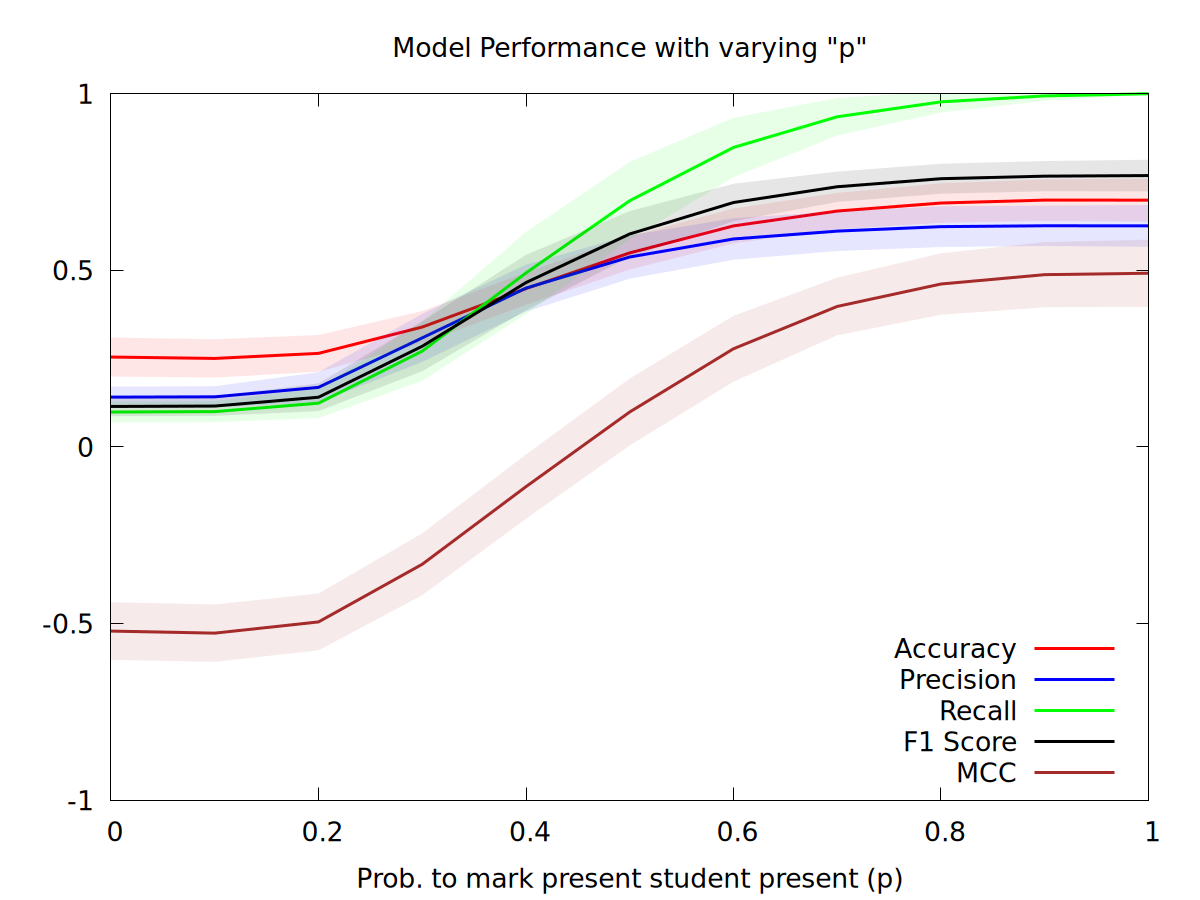
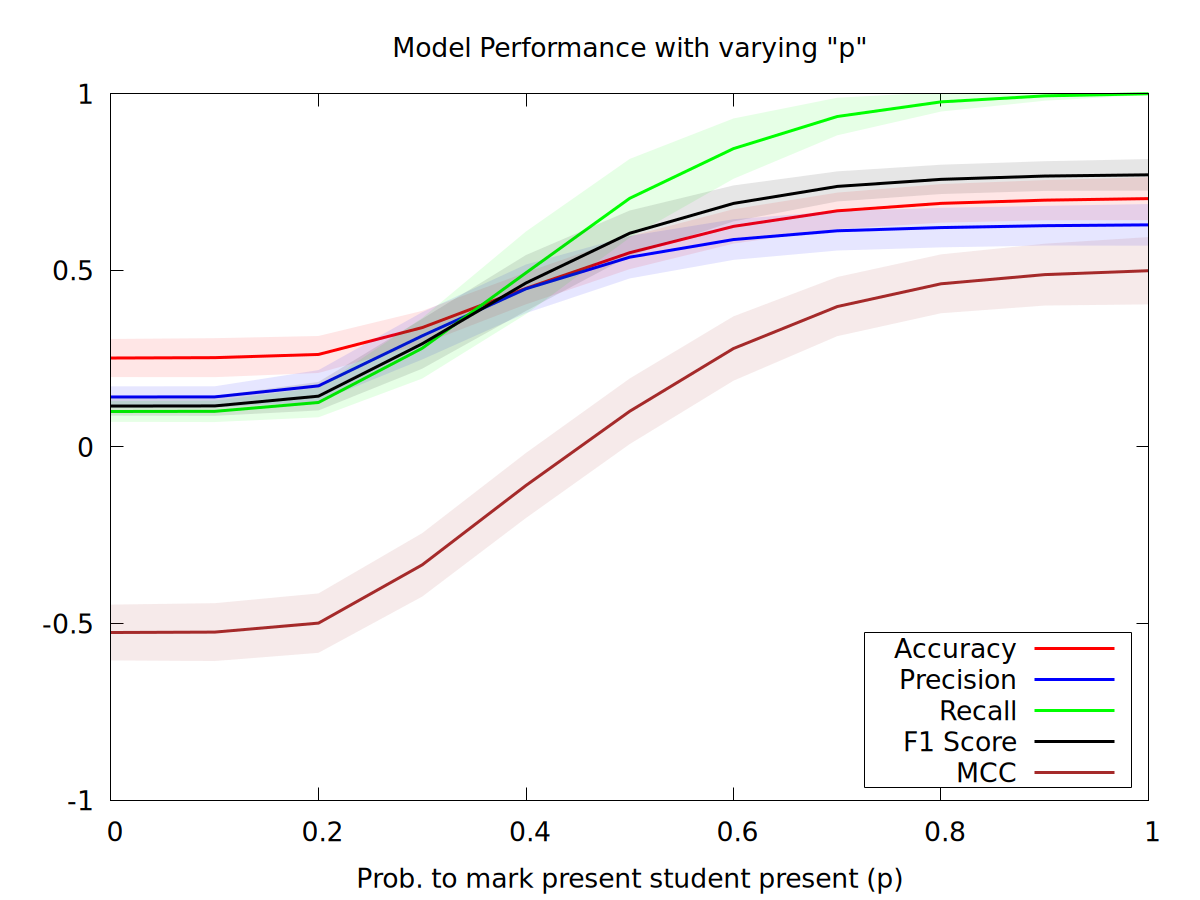
Added experiment with m

diff --git a/src/main.cpp b/src/main.cpp
@@ -326,9 +326,9 @@ int main(int argc, char *argv[])
         std::vector<double> ub(11), lb(11);
         for (int i = 0; i < 11; i++)
         {
-            float temp = 0.1 * i;
-            x[i] = temp;
-            std::pair<Stats, Stats> result = experiment(n, m, k, a, temp, q, r, seed, b, num_threads);
+            float var = 0.1 * i;
+            x[i] = var;
+            std::pair<Stats, Stats> result = experiment(n, m, k, a, var, q, r, seed, b, num_threads);
             tp_mean[i] = result.first.true_pos;
             fp_mean[i] = result.first.false_pos;
             fn_mean[i] = result.first.false_neg;
@@ -441,9 +441,9 @@ int main(int argc, char *argv[])
         std::vector<double> ub(11), lb(11);
         for (int i = 0; i < 11; i++)
         {
-            float temp = 0.1 * i;
-            x[i] = temp;
-            std::pair<Stats, Stats> result = experiment(n, m, k, a, p, temp, r, seed, b, num_threads);
+            float var = 0.1 * i;
+            x[i] = var;
+            std::pair<Stats, Stats> result = experiment(n, m, k, a, p, var, r, seed, b, num_threads);
             tp_mean[i] = result.first.true_pos;
             fp_mean[i] = result.first.false_pos;
             fn_mean[i] = result.first.false_neg;
@@ -472,6 +472,124 @@ int main(int argc, char *argv[])
         plt.set_savePath(("plots/" + variable + ".png").c_str());
         plt.set_title(("Model Performance with varying \"" + variable + "\"").c_str());
         plt.set_xlabel(("Prob. to mark absent student present (" + variable + ")").c_str());
+
+        plt.createPlot(x, acc_mean, "Accuracy", "red", Plotter::None, 0.0, 3.0);
+        for (int i = 0; i < 11; i++)
+        {
+            ub[i] = acc_mean[i] + acc_std[i];
+            lb[i] = acc_mean[i] - acc_std[i];
+        }
+        plt.fillBetween(x, ub, lb, "red", 0.1);
+
+        plt.addPlot(x, precision_mean, "Precision", "blue", Plotter::None, 0.0, 3.0);
+        for (int i = 0; i < 11; i++)
+        {
+            ub[i] = precision_mean[i] + precision_std[i];
+            lb[i] = precision_mean[i] - precision_std[i];
+        }
+        plt.fillBetween(x, ub, lb, "blue", 0.1);
+
+        plt.addPlot(x, recall_mean, "Recall", "green", Plotter::None, 0.0, 3.0);
+        for (int i = 0; i < 11; i++)
+        {
+            ub[i] = recall_mean[i] + recall_std[i];
+            lb[i] = recall_mean[i] - recall_std[i];
+        }
+        plt.fillBetween(x, ub, lb, "green", 0.1);
+
+        plt.addPlot(x, f1_mean, "F1 Score", "black", Plotter::None, 0.0, 3.0);
+        for (int i = 0; i < 11; i++)
+        {
+            ub[i] = f1_mean[i] + f1_std[i];
+            lb[i] = f1_mean[i] - f1_std[i];
+        }
+        plt.fillBetween(x, ub, lb, "black", 0.1);
+
+        plt.addPlot(x, mcc_mean, "MCC", "brown", Plotter::None, 0.0, 3.0);
+        for (int i = 0; i < 11; i++)
+        {
+            ub[i] = mcc_mean[i] + mcc_std[i];
+            lb[i] = mcc_mean[i] - mcc_std[i];
+        }
+        plt.fillBetween(x, ub, lb, "brown", 0.1);
+
+        std::ofstream fout("plots/desc/" + variable + ".txt");
+        fout << "########################## EXPERIMENT PARAMETERS ########################### " << std::endl;
+        fout << "Number of Threads -------------------------------------------- threads: " << num_threads << std::endl;
+        fout << "Seed (Random Number Generator) ---------------------------------- seed: " << seed << std::endl;
+        fout << "Number of Simmulations ------------------------------------------- sim: " << sim << std::endl;
+        fout << "Number of Students in the Class ------------------------------------ n: " << n << std::endl;
+        fout << "Number of Students to pick for rollcall ---------------------------- m: " << m << std::endl;
+        fout << "Minimum Number of Votes required to be present --------------------- k: " << k << std::endl;
+        fout << "Maximum Number of students that each student can ask for vote ------ a: " << a << std::endl;
+        fout << "Penalty for voting a absent student -------------------------------- b: " << a << std::endl;
+        fout << "Probability that a student is marked present if he/she is present -- p: " << p << std::endl;
+        fout << "Probability that a student is marked present if he/she is absent --- q: " << q << std::endl;
+        fout << "Probability that a student is present in the class ----------------- r: " << r << std::endl;
+        fout << "---------------------------------------------------------------------------- " << std::endl;
+    }
+
+    {
+        std::string variable = "m";
+
+        std::vector<double> tp_mean(11);
+        std::vector<double> fp_mean(11);
+        std::vector<double> fn_mean(11);
+        std::vector<double> tn_mean(11);
+        std::vector<double> acc_mean(11);
+        std::vector<double> precision_mean(11);
+        std::vector<double> recall_mean(11);
+        std::vector<double> f1_mean(11);
+        std::vector<double> mcc_mean(11);
+
+        std::vector<double> tp_std(11);
+        std::vector<double> fp_std(11);
+        std::vector<double> fn_std(11);
+        std::vector<double> tn_std(11);
+        std::vector<double> acc_std(11);
+        std::vector<double> precision_std(11);
+        std::vector<double> recall_std(11);
+        std::vector<double> f1_std(11);
+        std::vector<double> mcc_std(11);
+
+        std::vector<int> x(11);
+        std::vector<double> ub(11), lb(11);
+        for (int i = 0; i < 11; i++)
+        {
+            int var = n / (i + 2);
+            if (i > 0 && var >= x[i-1] - 1)
+                var = x[i-1] - 2;
+            x[i] = var;
+            std::pair<Stats, Stats> result = experiment(n, var, k, a, p, q, r, seed, b, num_threads);
+            tp_mean[i] = result.first.true_pos;
+            fp_mean[i] = result.first.false_pos;
+            fn_mean[i] = result.first.false_neg;
+            tn_mean[i] = result.first.true_neg;
+            acc_mean[i] = result.first.accuracy;
+            precision_mean[i] = result.first.precision;
+            recall_mean[i] = result.first.recall;
+            f1_mean[i] = result.first.f1_score;
+            mcc_mean[i] = result.first.mcc;
+
+            tp_std[i] = result.second.true_pos;
+            fp_std[i] = result.second.false_pos;
+            fn_std[i] = result.second.false_neg;
+            tn_std[i] = result.second.true_neg;
+            acc_std[i] = result.second.accuracy;
+            precision_std[i] = result.second.precision;
+            recall_std[i] = result.second.recall;
+            f1_std[i] = result.second.f1_score;
+            mcc_std[i] = result.second.mcc;
+        }
+
+        Plotter plt;
+        plt.set_legend("bottom");
+        // plt.set_logscale_x();
+        plt.set_xlim(x.back(), x[0]);
+        plt.set_ylim(0, 1);
+        plt.set_savePath(("plots/" + variable + ".png").c_str());
+        plt.set_title(("Model Performance with varying \"" + variable + "\"").c_str());
+        plt.set_xlabel(("Number of Students to roll call (" + variable + ")").c_str());
 
         plt.createPlot(x, acc_mean, "Accuracy", "red", Plotter::None, 0.0, 3.0);
         for (int i = 0; i < 11; i++)

diff --git a/src/plotter.hpp b/src/plotter.hpp
@@ -314,7 +314,7 @@ public:
     inline void set_legend(const char *position = "right")
     {
         if (gnuplotPipe)
-            fprintf(gnuplotPipe, "set key %s\n", position);
+            fprintf(gnuplotPipe, "set key box %s\n", position);
     }
 
     /**
@@ -347,6 +347,42 @@ public:
     {
         if (gnuplotPipe)
             fprintf(gnuplotPipe, "set yrange [%f:%f]\n", min, max);
+    }
+
+    /**
+     * @brief Makes x-axis logscale
+     */
+    inline void set_logscale_x()
+    {
+        if (gnuplotPipe)
+            fprintf(gnuplotPipe, "set logscale x\n");
+    }
+
+    /**
+     * @brief Makes y-axis logscale
+     */
+    inline void set_logscale_y()
+    {
+        if (gnuplotPipe)
+            fprintf(gnuplotPipe, "set logscale y\n");
+    }
+
+    /**
+     * @brief Makes x-axis linear scale
+     */
+    inline void unset_logscale_x()
+    {
+        if (gnuplotPipe)
+            fprintf(gnuplotPipe, "unset logscale x\n");
+    }
+
+    /**
+     * @brief Makes y-axis linear scale
+     */
+    inline void unset_logscale_y()
+    {
+        if (gnuplotPipe)
+            fprintf(gnuplotPipe, "unset logscale y\n");
     }
 
     /**
